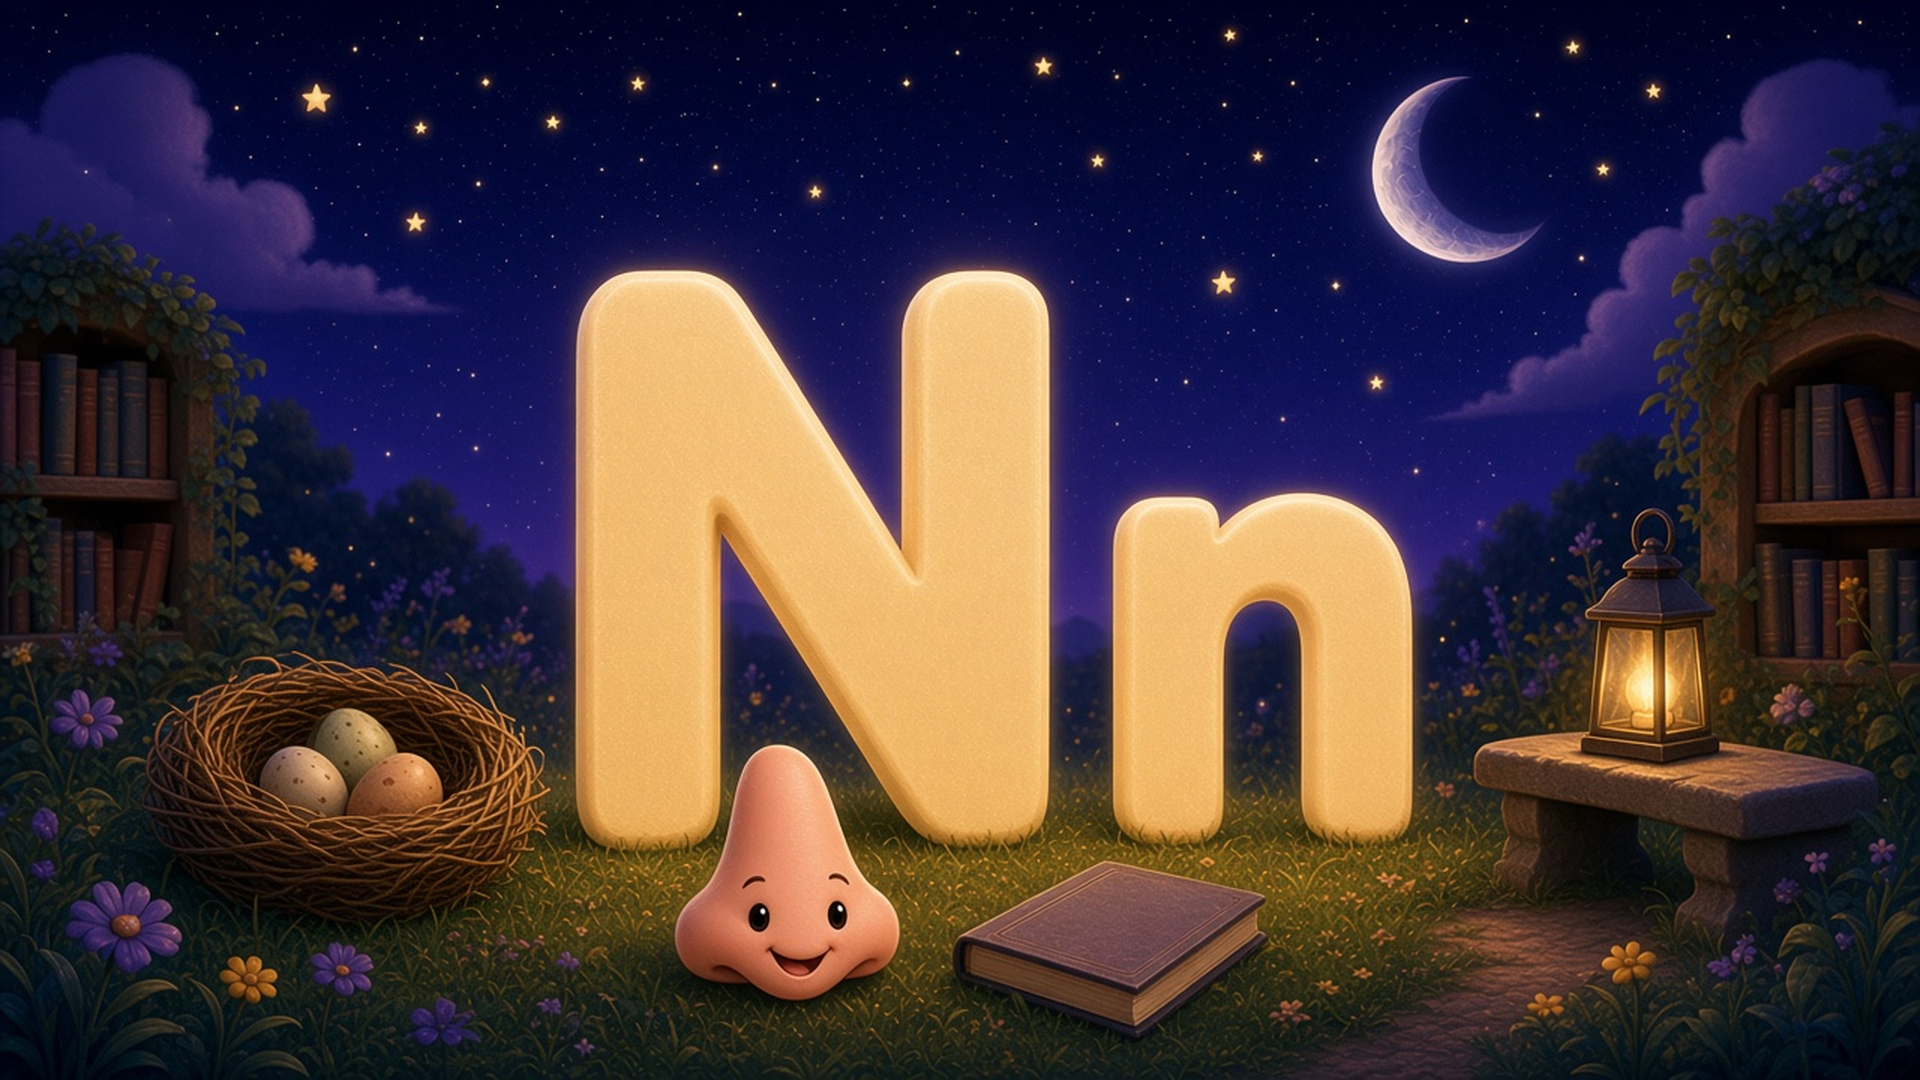
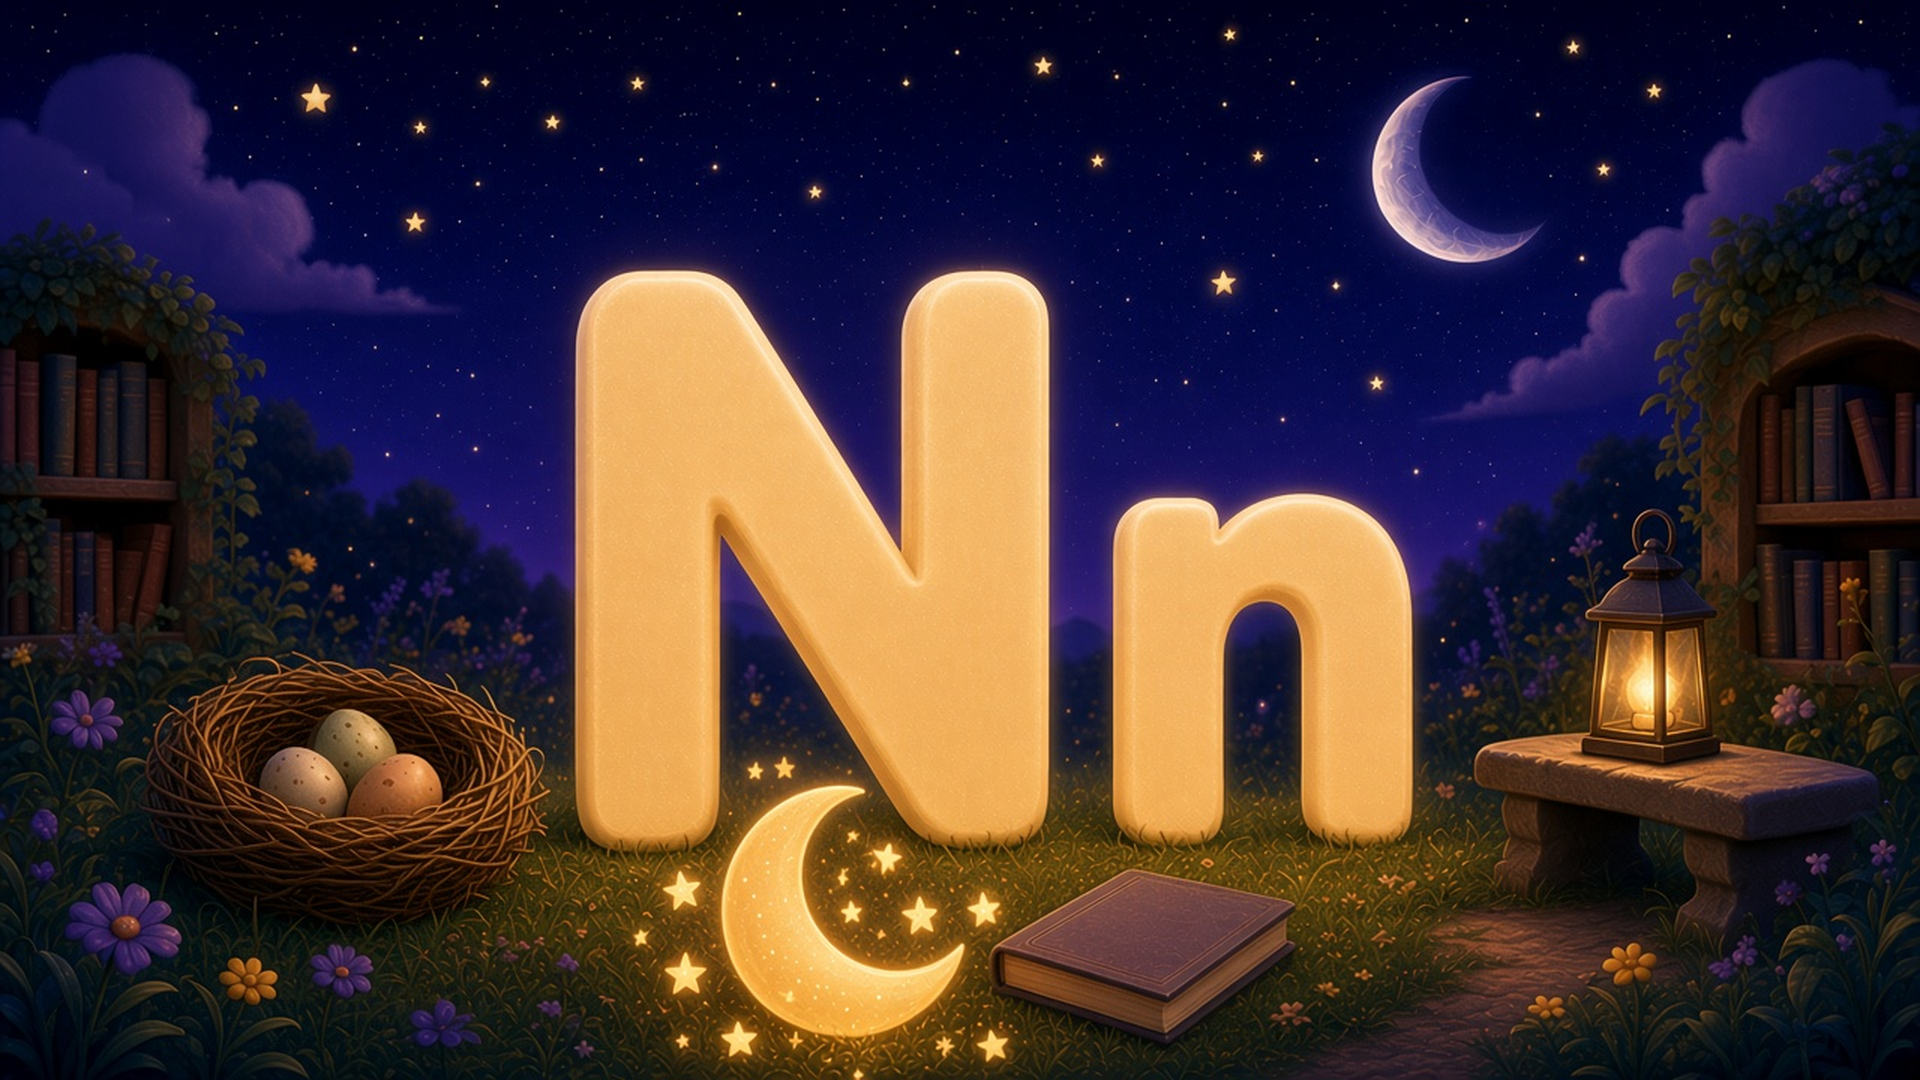
Replace N painting and trim N/X/Y word lists.
Nest+notebook scene for N (no nose character); N cycles Nest and Notebook only; X is X-ray, Xylophone, X mark; Y is Yo-yo, Yak, Yarn.

diff --git a/index.html b/index.html
@@ -728,7 +728,7 @@ var LETTERS = [
   {c:'K',pics:[{w:'Kite',e:'🪁'},{w:'Koala',e:'🐨'},{w:'Key',e:'🔑'}]},
   {c:'L',pics:[{w:'Lion',e:'🦁'},{w:'Leaf',e:'🍃'},{w:'Ladybug',e:'🐞'}]},
   {c:'M',pics:[{w:'Moon',e:'🌙'},{w:'Monkey',e:'🐵'},{w:'Mouse',e:'🐭'}]},
-  {c:'N',pics:[{w:'Nest',e:'🐦'},{w:'Nose',e:'👃'},{w:'Notebook',e:'📓'}]},
+  {c:'N',pics:[{w:'Nest',e:'🐦'},{w:'Notebook',e:'📓'}]},
   {c:'O',pics:[{w:'Octopus',e:'🐙'},{w:'Orange',e:'🍊'},{w:'Owl',e:'🦉'}]},
   {c:'P',pics:[{w:'Pig',e:'🐷'},{w:'Penguin',e:'🐧'},{w:'Pizza',e:'🍕'}]},
   {c:'Q',pics:[{w:'Queen',e:'👑'},{w:'Quilt',e:'🛏'}]},
@@ -738,8 +738,8 @@ var LETTERS = [
   {c:'U',pics:[{w:'Umbrella',e:'☂'},{w:'Up',e:'⬆'},{w:'Unicorn',e:'🦄'}]},
   {c:'V',pics:[{w:'Van',e:'🚐'},{w:'Violin',e:'🎻'},{w:'Volcano',e:'🌋'}]},
   {c:'W',pics:[{w:'Whale',e:'🐋'},{w:'Wolf',e:'🐺'},{w:'Watermelon',e:'🍉'}]},
-  {c:'X',pics:[{w:'Box',e:'📦'},{w:'X-ray',e:'🦴'},{w:'X mark',e:'❌'}]},
-  {c:'Y',pics:[{w:'Yo-yo',e:'🪀'},{w:'Yacht',e:'⛵'},{w:'Yarn',e:'🧶'}]},
+  {c:'X',pics:[{w:'X-ray',e:'🦴'},{w:'Xylophone',e:'🎼'},{w:'X mark',e:'❌'}]},
+  {c:'Y',pics:[{w:'Yo-yo',e:'🪀'},{w:'Yak',e:'🦬'},{w:'Yarn',e:'🧶'}]},
   {c:'Z',pics:[{w:'Zebra',e:'🦓'},{w:'Zoo',e:'🦒'},{w:'Zipper',e:'🧥'}]}
 ];
 
@@ -903,7 +903,7 @@ var LETTER_META = {
   K:{ipa:'/keɪ/ /k/', prefer:['Kite','Koala','Key']},
   L:{ipa:'/ɛl/ /l/', prefer:['Lion','Leaf','Ladybug']},
   M:{ipa:'/ɛm/ /m/', prefer:['Moon','Monkey','Mouse']},
-  N:{ipa:'/ɛn/ /n/', prefer:['Nest','Nose','Notebook']},
+  N:{ipa:'/ɛn/ /n/', prefer:['Nest','Notebook']},
   O:{ipa:'/oʊ/ /ɑ/', prefer:['Octopus']},
   P:{ipa:'/piː/ /p/', prefer:['Pig','Penguin','Pizza']},
   Q:{ipa:'/kjuː/ /kw/', prefer:['Queen','Quilt']},
@@ -913,8 +913,8 @@ var LETTER_META = {
   U:{ipa:'/juː/ /ʌ/', prefer:['Umbrella','Up']},
   V:{ipa:'/viː/ /v/', prefer:['Van','Violin','Volcano']},
   W:{ipa:'/ˈdʌbəl juː/ /w/', prefer:['Whale','Wolf','Watermelon']},
-  X:{ipa:'/ɛks/ /ks/', prefer:['Box']},
-  Y:{ipa:'/waɪ/ /j/', prefer:['Yo-yo','Yacht','Yarn']},
+  X:{ipa:'/ɛks/ /ks/', prefer:['X-ray','Xylophone','X mark']},
+  Y:{ipa:'/waɪ/ /j/', prefer:['Yo-yo','Yak','Yarn']},
   Z:{ipa:'/ziː/ /z/', prefer:['Zebra','Zoo','Zipper']}
 };
 
